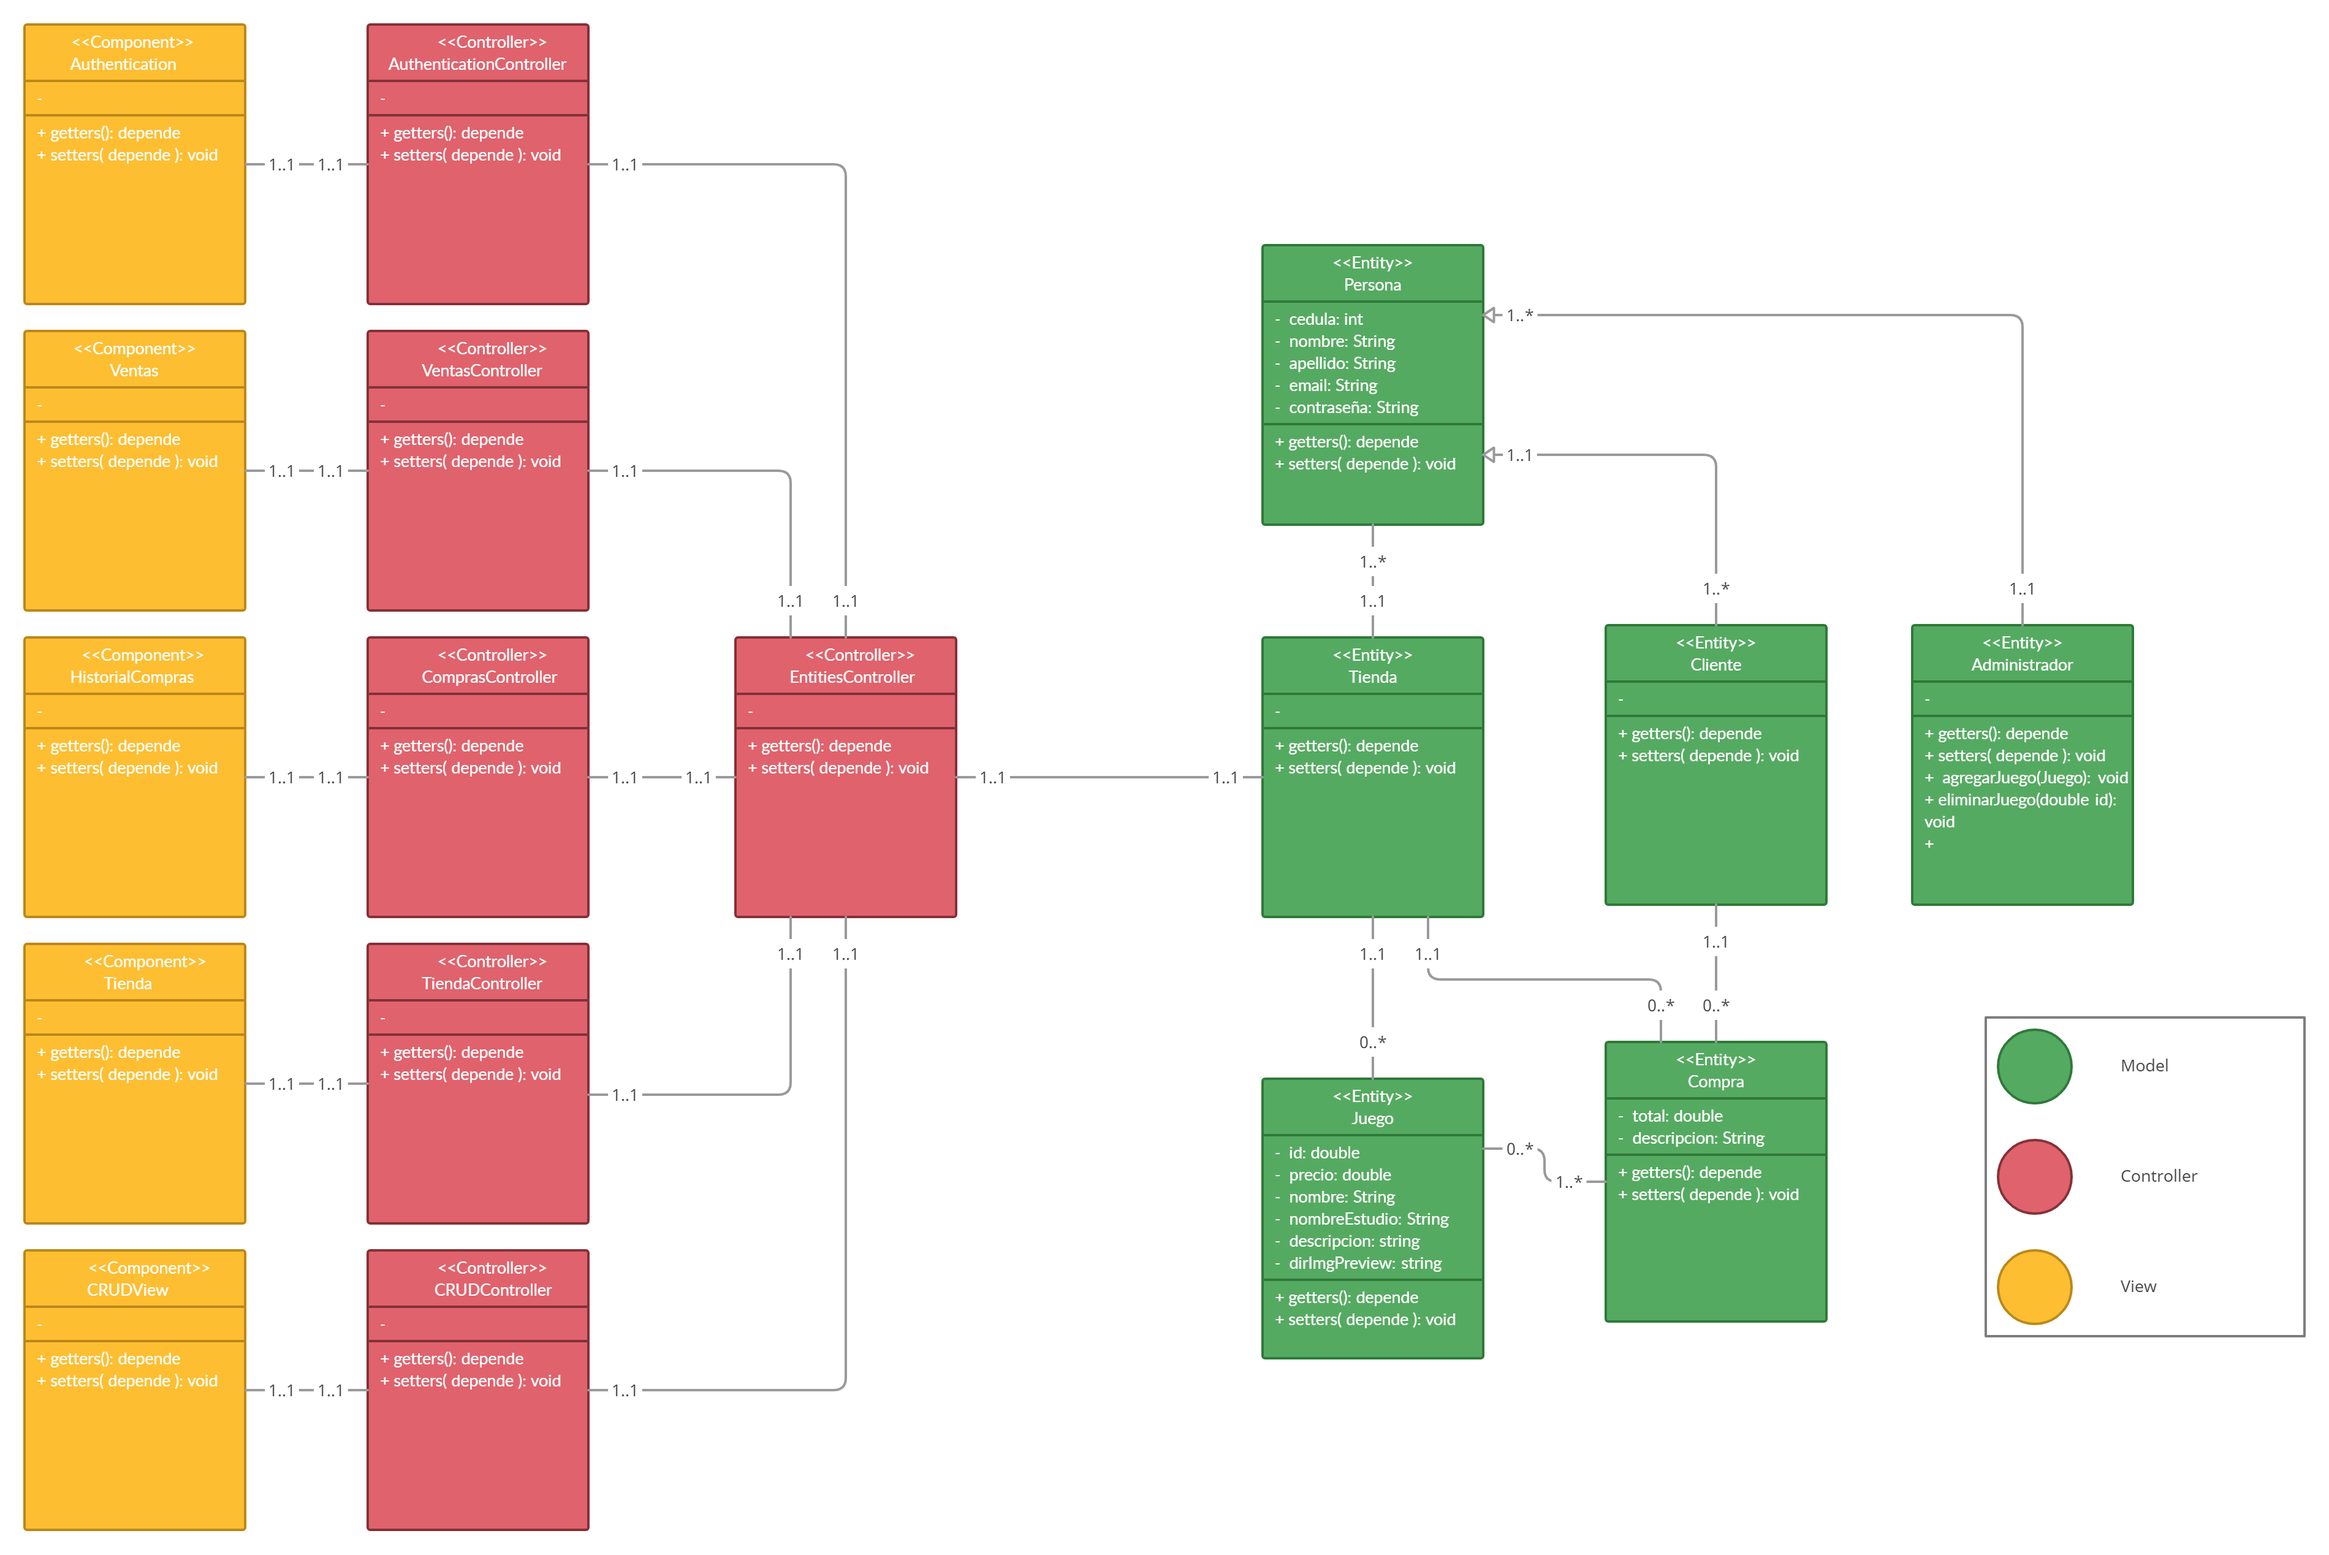
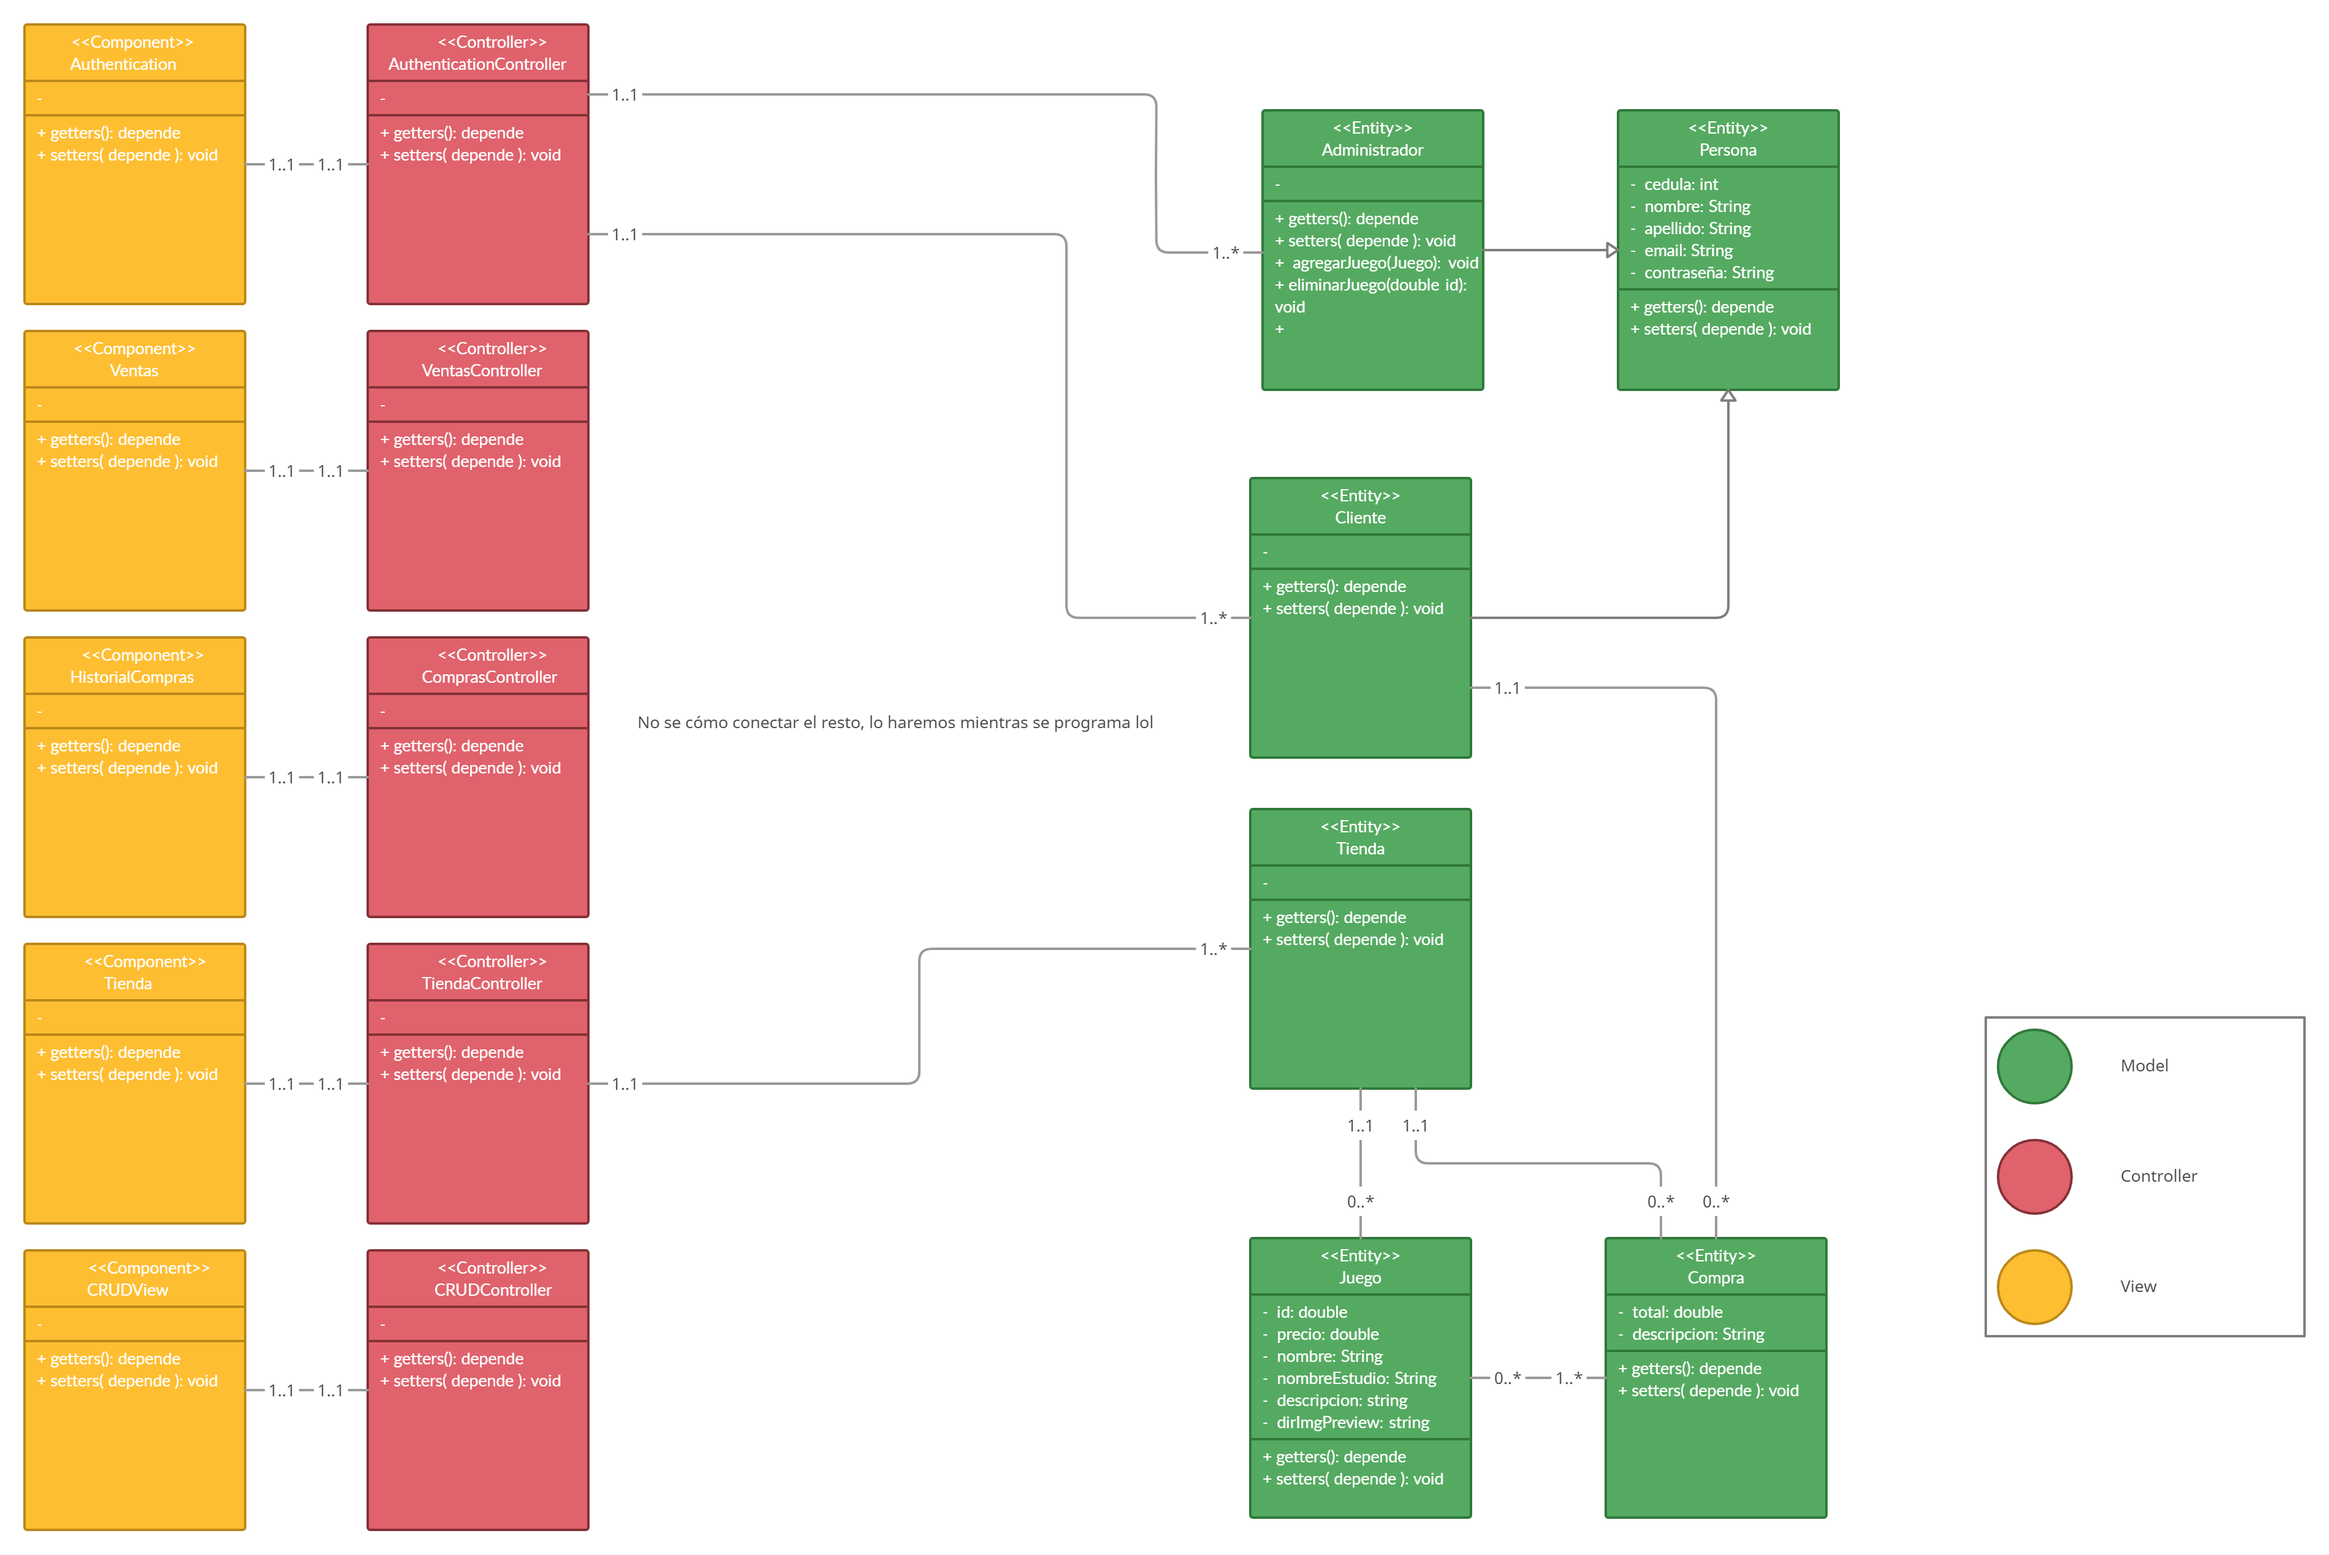
DiagramaMVC updated, Modelo Tienda done

diff --git a/proyecto1/src/app/models/tienda.model.ts b/proyecto1/src/app/models/tienda.model.ts
@@ -1,4 +1,70 @@
+import { Juego } from "./juego.model";
+
 export class Tienda
 {
-    
+    private nombre: string;
+    private id: number;
+    private juegos: Juego[];
+
+
+    constructor(nombre: string, id:number)
+    {
+        this.nombre = nombre;
+        this.id = id;
+    }
+
+    public getNombre(): string
+    {
+        return this.nombre;
+    }
+
+    public setNombre(nombre: string): void
+    {
+        this.nombre = nombre;
+    }
+
+    public getId(): number
+    {
+        return this.id;
+    }
+
+    public setId(id: number): void
+    {
+        this.id = id;
+    }
+
+    public agregarJuego(juego: Juego) : void
+    {
+        this.juegos.push(juego);
+    }
+
+    public eliminarJuego(id: number) : void
+    {
+        const cond = (juego:Juego) => juego.getId() == id;
+        let i = this.juegos.findIndex(cond);
+        if(i > -1)
+            this.juegos.splice(i,1)
+        //else
+            //Mensaje de no encontrado o algo así
+    }
+
+    public buscarJuegoPorID(id: number) : Juego
+    {
+        const cond = (juego:Juego) => juego.getId() == id;
+        let i = this.juegos.findIndex(cond);
+        if(i > -1)
+            return this.juegos[i];
+        else
+            return null;
+    }
+
+    public modificarJuego(juego : Juego)
+    {
+        const cond = (juego:Juego) => juego.getId() == juego.getId();
+        let i = this.juegos.findIndex(cond);
+        if(i > -1)
+            this.juegos.splice(i,1,juego);
+        else
+            this.agregarJuego(juego);
+    }
 }
